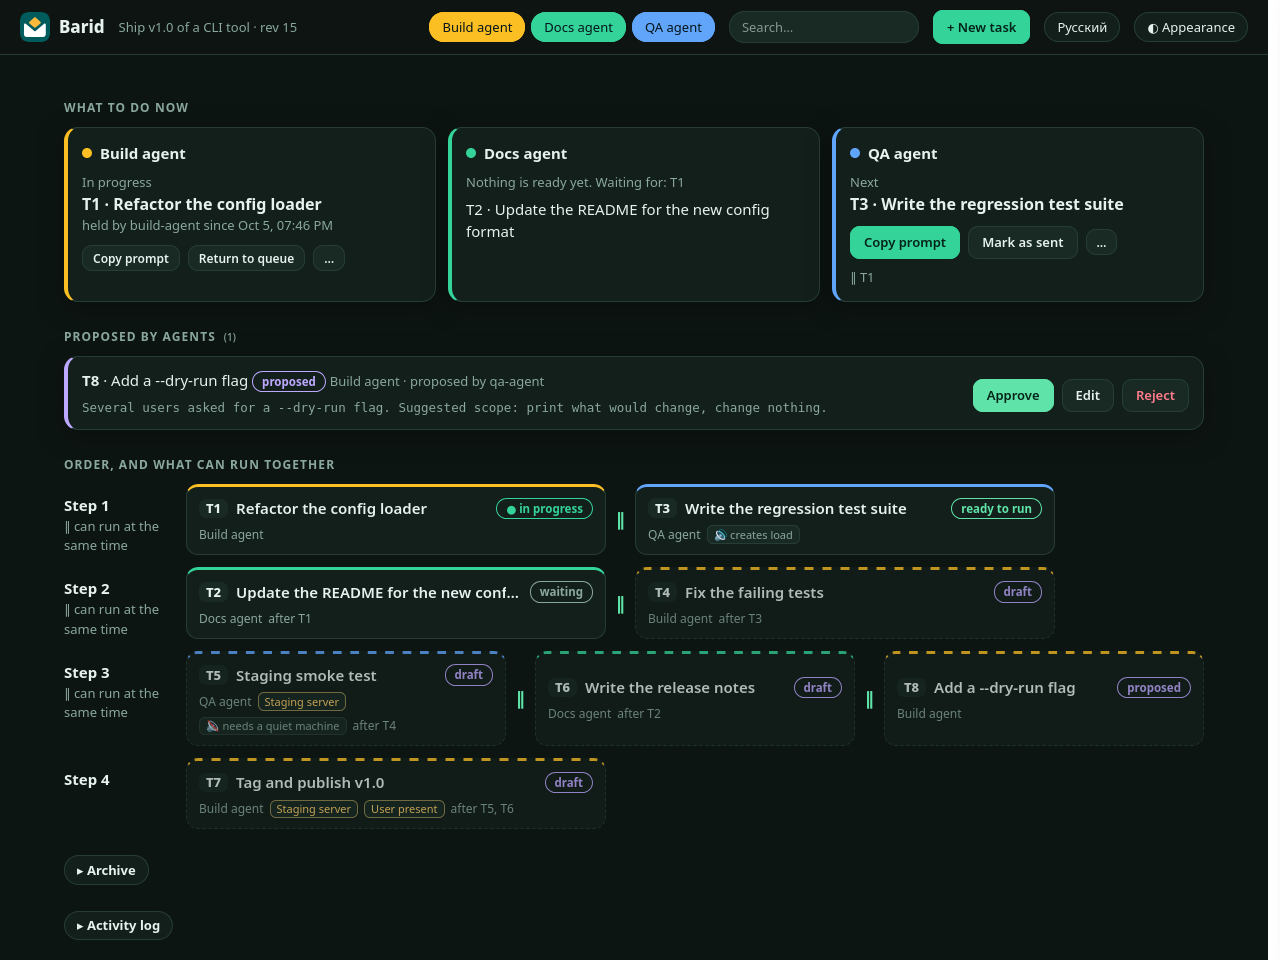
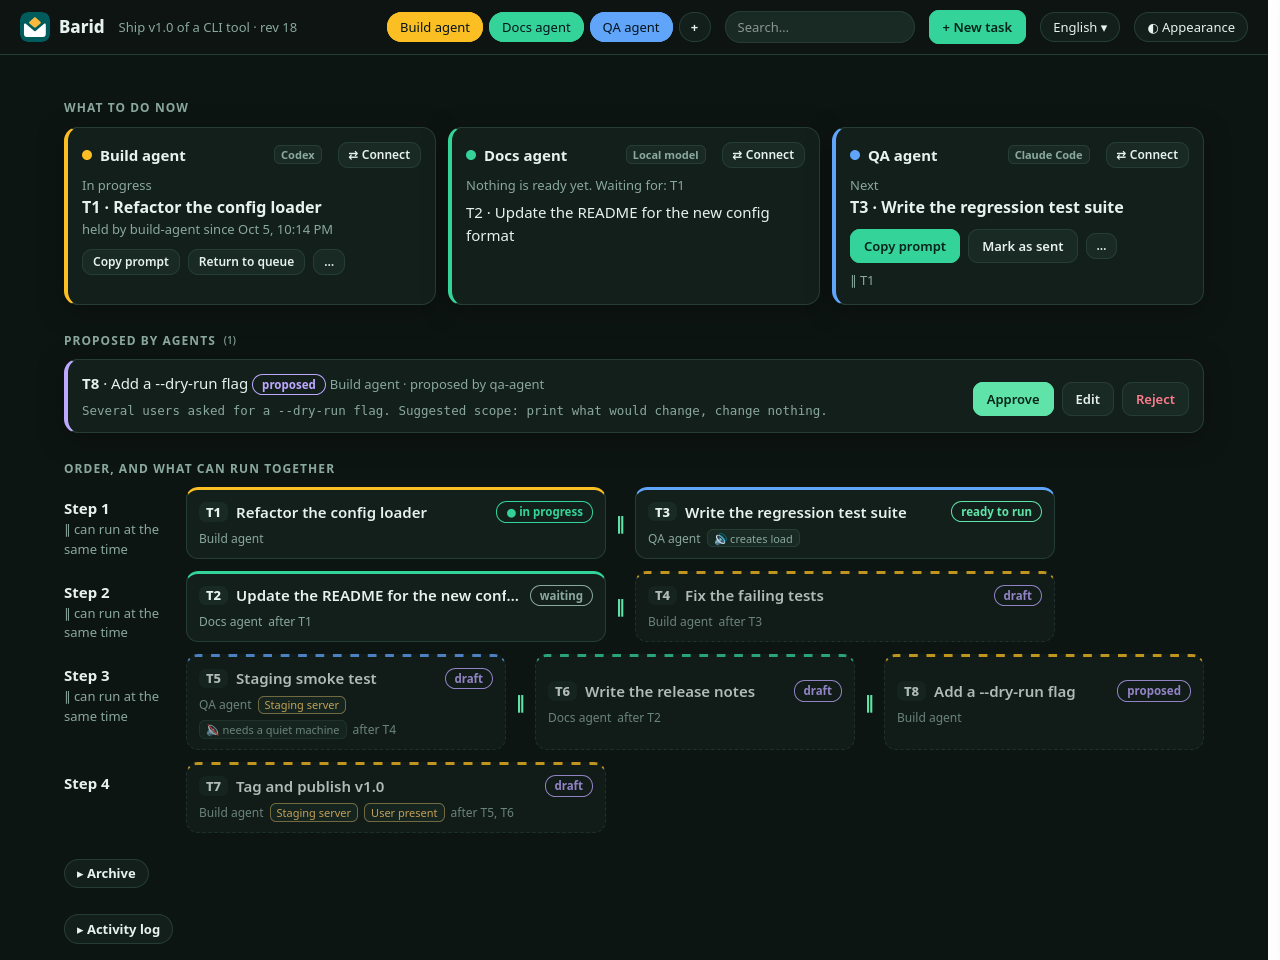
README: sessions, Connect, Kazakh; new panel screenshots

diff --git a/README.kz.md b/README.kz.md
@@ -76,7 +76,7 @@ https://github.com/hikkian/barid and use `python3 <path>/barid.py` as described 
    +----------------------------------------------------------------------------+
 ```
 
-- **Lane-дер** — сіздің сессияларыңыз. Бір lane бір уақытта бір тапсырманы орындайды.
+- **Lane-дер** — сіздің сессияларыңыз. Бір lane бір уақытта бір тапсырманы орындайды. Жаңа сессияны панельдегі «+» батырмасымен немесе `barid lane add` командасымен қосады; *Қосу* батырмасы (немесе `barid connect LANE`) сол агент терезесіне бірінші хабарлама ретінде қоятын мәтінді береді, содан кейін агент тапсырмаларды тақтадан өзі алады.
 - **Тапсырмаларда** промпт, тәуелділіктер (`--needs`), эксклюзивті ресурстар (`--uses gpu`) және екі жалауша бар: `--quiet` (машина тыныш болуы керек) және `--noisy` (CPU-ны немесе десктопты жүктейді). Тақта осылардан қайсысы *ready* (дайын), *waiting* (күтуде) немесе *blocked* (бөгелген) екенін есептейді және *қадамдарды* жоспарлайды: бір қадамдағы тапсырмаларды бір мезгілде орындауға болады.
 - **Промпттар өз нұсқауларын өздері алып жүреді.** *Промптты көшіру* батырмасын басқанда тақта промптқа нақты командалары (`claim`, `finish`, `note`) және `barid.py` жолы бар қысқа төменгі жазба қосады, сондықтан skill-i жоқ сессия да есепті қалай тапсыру керегін біледі.
 - **Draft тапсырмаларда** тек жоспар-сипаттама болады. Кезегі келгенде панель *Промпт жасату* ұсынады: ол агентіңізге арналған сұранысты көшіреді (сипаттама, аяқталған тәуелділіктердің есептері, контекст файлдары, промпт қаңқасы), агент промптты жазып, `barid edit` арқылы сақтайды.
@@ -140,13 +140,13 @@ Barid не қосады, әрқайсысы бір жолмен:
 
 | | |
 |---|---|
-| **Қазір не істеу керек** | әр lane бойынша: орындалып жатқан тапсырма немесе *Промптты көшіру* және *Жіберілді деп белгілеу* батырмалары бар келесі дайын тапсырма; таңдалған тапсырмаларды қатар орындауға бола ма, соны айтатын жол |
+| **Қазір не істеу керек** | әр lane бойынша: орындалып жатқан тапсырма немесе *Промптты көшіру*, *Жіберілді деп белгілеу* және *Қосу* батырмалары бар келесі дайын тапсырма; таңдалған тапсырмаларды қатар орындауға бола ма, соны айтатын жол |
 | **Inbox** | агенттердің ұсыныстары (*Мақұлдау / Өзгерту / Қабылдамау*) және тексеруге арналған есептер (*Қабылдау / Қайта жұмысқа қайтару*) |
 | **Order** | параллель топтары бар қадамдар, тәуелділік чиптері, ресурс тегтері, нәрсенің неге бөгелгені |
 | **Details** | промпт мәтіні, жазбалар, тарих, өңдеу формасы, кез келген күй |
 | **Archive / Activity** | аяқталған және бас тартылған тапсырмалар, оқиғалар журналы |
 
-Ағылшын және орыс тілдері кіріктірілген (автоматты анықталады, тақырыптан ауыстырылады), ашық, күңгірт немесе автоматты режим және төрт түс палитрасы (Forest, Teal, Graphite, Midnight) *Көрініс* батырмасынан, телефонда да жұмыс істейді. Дәл сол мәзірден **әр сессияға ат пен түс беруге** және онда қай **агент** жұмыс істейтінін көрсетуге болады (Claude Code, Codex, OpenCode, Gemini CLI, Cursor, Aider, жергілікті модель немесе кез келген атау); агент сессияда белгі (badge) ретінде көрінеді. Панель тек беті көрініп тұрғанда сұраныс жібереді және жабық кезде ештеңеге жұмсалмайды: сервер 30 минут бос тұрса өшеді (`barid open --idle-exit 0` оны қосулы ұстайды).
+Ағылшын, орыс және қазақ тілдері кіріктірілген (автоматты анықталады, тілдер тізімінен тақырыпта таңдалады), ашық, күңгірт немесе автоматты режим және төрт түс палитрасы (Forest, Teal, Graphite, Midnight) *Көрініс* батырмасынан, телефонда да жұмыс істейді. Дәл сол мәзірден **әр сессияға ат пен түс беруге** және онда қай **агент** жұмыс істейтінін көрсетуге болады (Claude Code, Codex, OpenCode, Gemini CLI, Cursor, Aider, жергілікті модель немесе кез келген атау); агент сессияда белгі (badge) ретінде көрінеді. Панель тек беті көрініп тұрғанда сұраныс жібереді және жабық кезде ештеңеге жұмсалмайды: сервер 30 минут бос тұрса өшеді (`barid open --idle-exit 0` оны қосулы ұстайды).
 
 ![Details drawer](docs/img/panel-light-drawer.png)
 
@@ -169,6 +169,8 @@ barid protect add config/live.json        # no task may change it (verified at f
 barid worktree T3                         # an isolated git worktree and branch for the task
 barid check T3                            # what could collide with it
 barid lane edit a --title Builder --color "#7c5cff" --agent codex   # name, colour and agent of a session
+barid lane add tests --title Tests --agent codex       # a new session (or the "+" button in the panel)
+barid connect tests                          # the first message to paste into that agent's window
 barid open                                   # panel;  barid export board.html  = read-only snapshot
 ```
 

diff --git a/README.ru.md b/README.ru.md
@@ -76,7 +76,7 @@ https://github.com/hikkian/barid and use `python3 <path>/barid.py` as described 
    +----------------------------------------------------------------------------+
 ```
 
-- **Сессии** (lanes) — это ваши сессии агентов. В одной сессии одновременно выполняется одна задача.
+- **Сессии** (lanes) — это ваши сессии агентов. В одной сессии одновременно выполняется одна задача. Новую сессию добавляют кнопкой «+» в панели или командой `barid lane add`; кнопка *Подключить* (или `barid connect СЕССИЯ`) выдаёт первое сообщение, которое нужно вставить в окно этого агента, и дальше он сам берёт задачи с доски.
 - **Задачи** имеют промпт, зависимости (`--needs`), эксклюзивные ресурсы (`--uses gpu`) и два флага: `--quiet` (нужна тихая машина) и `--noisy` (нагружает CPU или рабочий стол). По ним доска вычисляет, что *готово* (ready), что *ждёт* (waiting), а что *заблокировано* (blocked), и строит *шаги*: задачи одного шага можно запускать одновременно.
 - **Промпты несут свои инструкции.** Когда вы нажимаете *Скопировать промпт*, доска дописывает в конец короткий футер с точными командами (`claim`, `finish`, `note`) и путём к `barid.py`, так что даже сессия без skill знает, как отчитаться.
 - **Черновики задач** хранят только набросок. Когда подходит их очередь, панель предлагает *Сгенерировать промпт*: она копирует запрос для вашего агента (набросок, отчёты завершённых зависимостей, контекстные файлы, каркас промпта), а агент пишет промпт и сохраняет его через `barid edit`.
@@ -140,13 +140,13 @@ barid lane edit local  --agent local  --color "#86f9e4" --human
 
 | | |
 |---|---|
-| **Что делать сейчас** | по каждой сессии: выполняемая задача или следующая готовая, с *Скопировать промпт* и *Отметить как отправленный*; строка о том, можно ли запускать выбранные задачи вместе |
+| **Что делать сейчас** | по каждой сессии: выполняемая задача или следующая готовая, с *Скопировать промпт*, *Отметить как отправленный* и *Подключить*; строка о том, можно ли запускать выбранные задачи вместе |
 | **Входящие** | предложения от агентов (*Одобрить / Редактировать / Отклонить*) и отчёты на проверку (*Принять / Вернуть на доработку*) |
 | **Порядок** | шаги с параллельными группами, чипы зависимостей, теги ресурсов, причина блокировки |
 | **Детали** | текст промпта, заметки, история, форма редактирования, любой статус |
 | **Архив / Активность** | завершённые и отменённые задачи, журнал событий |
 
-Встроены английский и русский (определяются автоматически, переключаются в шапке), светлая, тёмная или автоматическая тема и четыре цветовые палитры (Forest, Teal, Graphite, Midnight) через кнопку *Оформление*; работает на телефоне. Из того же меню можно **назвать и раскрасить каждую сессию** и указать, какой **агент** в ней работает (Claude Code, Codex, OpenCode, Gemini CLI, Cursor, Aider, локальная модель или любое имя); агент отображается бейджем на сессии. Панель опрашивает сервер, только пока её вкладка видна, и ничего не стоит, когда закрыта: сервер завершается после 30 минут простоя (`barid open --idle-exit 0` оставляет его работать).
+Встроены английский, русский и казахский (определяются автоматически, выбираются в списке языков в шапке), светлая, тёмная или автоматическая тема и четыре цветовые палитры (Forest, Teal, Graphite, Midnight) через кнопку *Оформление*; работает на телефоне. Из того же меню можно **назвать и раскрасить каждую сессию** и указать, какой **агент** в ней работает (Claude Code, Codex, OpenCode, Gemini CLI, Cursor, Aider, локальная модель или любое имя); агент отображается бейджем на сессии. Панель опрашивает сервер, только пока её вкладка видна, и ничего не стоит, когда закрыта: сервер завершается после 30 минут простоя (`barid open --idle-exit 0` оставляет его работать).
 
 ![Панель деталей](docs/img/panel-light-drawer.png)
 
@@ -169,6 +169,8 @@ barid protect add config/live.json        # no task may change it (verified at f
 barid worktree T3                         # an isolated git worktree and branch for the task
 barid check T3                            # what could collide with it
 barid lane edit a --title Builder --color "#7c5cff" --agent codex   # name, colour and agent of a session
+barid lane add tests --title Tests --agent codex       # a new session (or the "+" button in the panel)
+barid connect tests                          # the first message to paste into that agent's window
 barid open                                   # panel;  barid export board.html  = read-only snapshot
 ```
 

diff --git a/README.md b/README.md
@@ -76,7 +76,7 @@ https://github.com/hikkian/barid and use `python3 <path>/barid.py` as described 
    +----------------------------------------------------------------------------+
 ```
 
-- **Lanes** are your sessions. A lane runs one task at a time.
+- **Lanes** are your sessions. A lane runs one task at a time. Add one with the "+" button in the panel or `barid lane add`; the *Connect* button (or `barid connect LANE`) gives you the first message to paste into that agent's window, after which it takes its tasks from the board by itself.
 - **Tasks** have a prompt, dependencies (`--needs`), exclusive resources (`--uses gpu`) and two flags: `--quiet` (needs a quiet machine) and `--noisy` (loads the CPU or the desktop). The board computes from them what is *ready*, *waiting* or *blocked*, and plans *steps*: tasks in one step may run at the same time.
 - **Prompts carry their own instructions.** When you press *Copy prompt*, the board appends a short footer with the exact commands (`claim`, `finish`, `note`) and the path of `barid.py`, so even a session without the skill knows how to report.
 - **Draft tasks** hold only an outline. When their turn comes the panel offers *Generate prompt*: it copies a request (outline, the reports of finished dependencies, context files, a prompt skeleton) for your agent, which writes the prompt and stores it with `barid edit`.
@@ -140,13 +140,13 @@ This is **detection plus convention, not a sandbox**: an agent can still write a
 
 | | |
 |---|---|
-| **What to do now** | per lane: the running task, or the next ready one with *Copy prompt* and *Mark as sent*; a line telling whether the picked tasks can run together |
+| **What to do now** | per lane: the running task, or the next ready one with *Copy prompt*, *Mark as sent* and *Connect*; a line telling whether the picked tasks can run together |
 | **Inbox** | proposals from agents (*Approve / Edit / Reject*) and reports to review (*Accept / Send back*) |
 | **Order** | steps with parallel groups, dependency chips, resource tags, why something is blocked |
 | **Details** | prompt text, notes, history, edit form, any status |
 | **Archive / Activity** | finished and cancelled tasks, the event log |
 
-English and Russian built in (auto-detected, switch in the header), light, dark or automatic mode and four colour palettes (Forest, Teal, Graphite, Midnight) from the *Appearance* button, works on a phone. The same menu lets you **name and colour each session** and say which **agent** runs in it (Claude Code, Codex, OpenCode, Gemini CLI, Cursor, Aider, a local model, or any name); the agent shows as a badge on the session. The panel polls only while its tab is visible and costs nothing when closed: the server exits after 30 idle minutes (`barid open --idle-exit 0` keeps it).
+English, Russian and Kazakh built in (auto-detected, pick one from the language list in the header), light, dark or automatic mode and four colour palettes (Forest, Teal, Graphite, Midnight) from the *Appearance* button, works on a phone. The same menu lets you **name and colour each session** and say which **agent** runs in it (Claude Code, Codex, OpenCode, Gemini CLI, Cursor, Aider, a local model, or any name); the agent shows as a badge on the session. The panel polls only while its tab is visible and costs nothing when closed: the server exits after 30 idle minutes (`barid open --idle-exit 0` keeps it).
 
 ![Details drawer](docs/img/panel-light-drawer.png)
 
@@ -169,6 +169,8 @@ barid protect add config/live.json        # no task may change it (verified at f
 barid worktree T3                         # an isolated git worktree and branch for the task
 barid check T3                            # what could collide with it
 barid lane edit a --title Builder --color "#7c5cff" --agent codex   # name, colour and agent of a session
+barid lane add tests --title Tests --agent codex       # a new session (or the "+" button in the panel)
+barid connect tests                          # the first message to paste into that agent's window
 barid open                                   # panel;  barid export board.html  = read-only snapshot
 ```
 

diff --git a/CHANGELOG.md b/CHANGELOG.md
@@ -1,5 +1,9 @@
 # Changelog
 
+## Unreleased
+
+- README (all three languages): adding sessions, the Connect button and `barid connect`, Kazakh; fresh panel screenshots.
+
 ## 0.4.1 (2026-10-05)
 
 - The language button shows the current language and opens a list of all three (English, Русский, Қазақша) with a tick on the active one.
